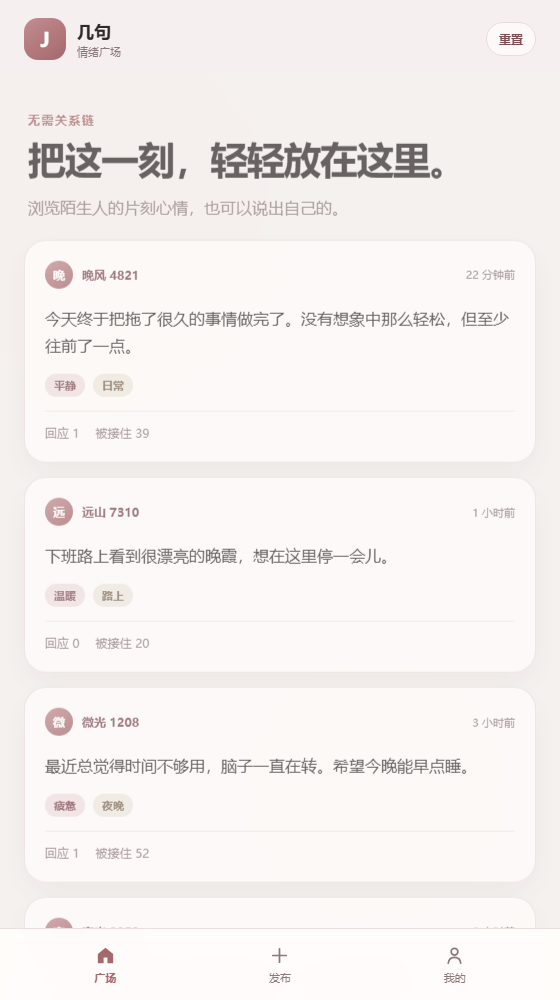
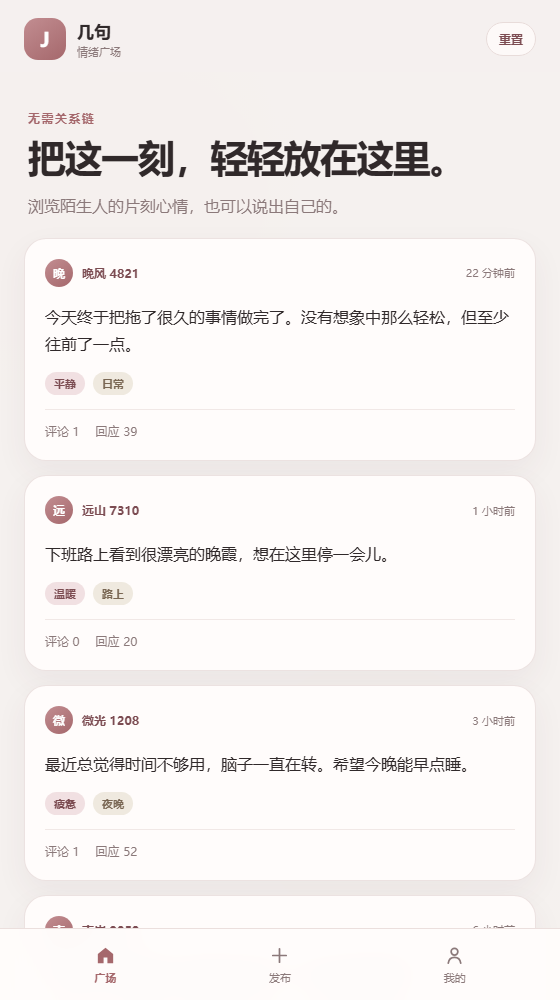
调整 H5 帖子互动文案

diff --git a/docs/preview/app.js b/docs/preview/app.js
@@ -235,7 +235,7 @@
 
     const footer = document.createElement('div');
     footer.className = 'post-footer';
-    footer.innerHTML = `<span>回应 ${post.comments.length}</span><span>被接住 ${totalReactions(post)}</span>`;
+    footer.innerHTML = `<span>评论 ${post.comments.length}</span><span>回应 ${totalReactions(post)}</span>`;
 
     button.append(authorRow, body, tags, footer);
     card.appendChild(button);
